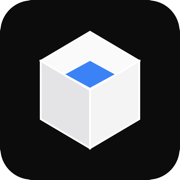
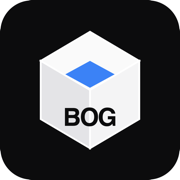
Shared cube treatment: BOG mark + animated aura on π cube
- Pi Academy cube now uses the same animated sun-ray NeonAuraFrame and the live neon palette that switches at intervals (crown switches with the neon), matching the BOG cube's living treatment. Export NeonAuraFrame for reuse.
- Add a "BOG" identifier inside the BOG cube (sibling of the π in the Pi Academy cube) — in the React mark, favicon.svg, and the BOG social image.
- Regenerate BOG PNG icons and OG image with the BOG mark.

Changed region(s): [[0.3333, 0.5833, 0.6667, 0.7222]]

diff --git a/src/components/PiAcademyLogo.tsx b/src/components/PiAcademyLogo.tsx
@@ -2,6 +2,9 @@
 // Same isometric cube geometry as BOG-Pi (Logo.tsx), but its own identity:
 // an amber "crown" top face (the Academy's learning light) with π as the hero glyph.
 
+import { NeonAuraFrame } from '@/components/Logo';
+import { useNeonAuraPalette } from '@/hooks/useNeonAuraPalette';
+
 export const ACADEMY_AMBER = 'hsl(38 90% 48%)';
 
 /** Isometric cube with an amber crown + π hero — Pi Academy's own mark. */
@@ -72,21 +75,17 @@ export function PiAcademyMark({
   );
 }
 
-/** Mark wrapped in a soft amber aura — sibling of the BOG neon glow. */
+/**
+ * Mark wrapped in the same animated sun-ray aura as the BOG cube, with the live
+ * neon palette that switches at intervals — applied to the π cube. The amber
+ * crown switches with the neon so the two cubes share the same living treatment.
+ */
 export function PiAcademyMarkGlow({ size = 56 }: { size?: number }) {
+  const aura = useNeonAuraPalette();
   return (
-    <div
-      className="relative flex shrink-0 items-center justify-center rounded-2xl"
-      style={{
-        background: `radial-gradient(circle at 50% 45%, ${ACADEMY_AMBER}22 0%, transparent 70%)`,
-        boxShadow: `0 0 22px ${ACADEMY_AMBER}33, 0 0 44px ${ACADEMY_AMBER}1f`,
-        padding: Math.round(size * 0.28),
-      }}
-    >
-      <div className="overflow-hidden rounded-xl ring-1 ring-black/5">
-        <PiAcademyMark size={size} />
-      </div>
-    </div>
+    <NeonAuraFrame primary={aura.primary} secondary={aura.secondary} size={size}>
+      <PiAcademyMark size={size} amber={aura.primary} />
+    </NeonAuraFrame>
   );
 }
 

diff --git a/src/components/Logo.tsx b/src/components/Logo.tsx
@@ -64,15 +64,24 @@ export function CubeLogoMark({
           className="transition-[fill] duration-[2s] ease-in-out"
         />
       )}
-      <path d="M22 38 L38 47" stroke="#0c0c0d" strokeWidth="0.65" strokeOpacity="0.28" />
-      <path d="M58 38 L42 47" stroke="#0c0c0d" strokeWidth="0.65" strokeOpacity="0.28" />
-      <path d="M29 45 L29 58" stroke="#0c0c0d" strokeWidth="0.65" strokeOpacity="0.28" />
-      <path d="M51 45 L51 58" stroke="#0c0c0d" strokeWidth="0.65" strokeOpacity="0.28" />
+      {/* BOG — identifies the cube (sibling of the π on the Pi Academy cube) */}
+      <text
+        x="40"
+        y="55"
+        textAnchor="middle"
+        fill="#0c0c0d"
+        fontSize="10.5"
+        fontWeight="800"
+        fontFamily="Helvetica, Arial, sans-serif"
+        letterSpacing="-0.5"
+      >
+        BOG
+      </text>
     </svg>
   );
 }
 
-function NeonAuraFrame({
+export function NeonAuraFrame({
   primary,
   secondary,
   size,
